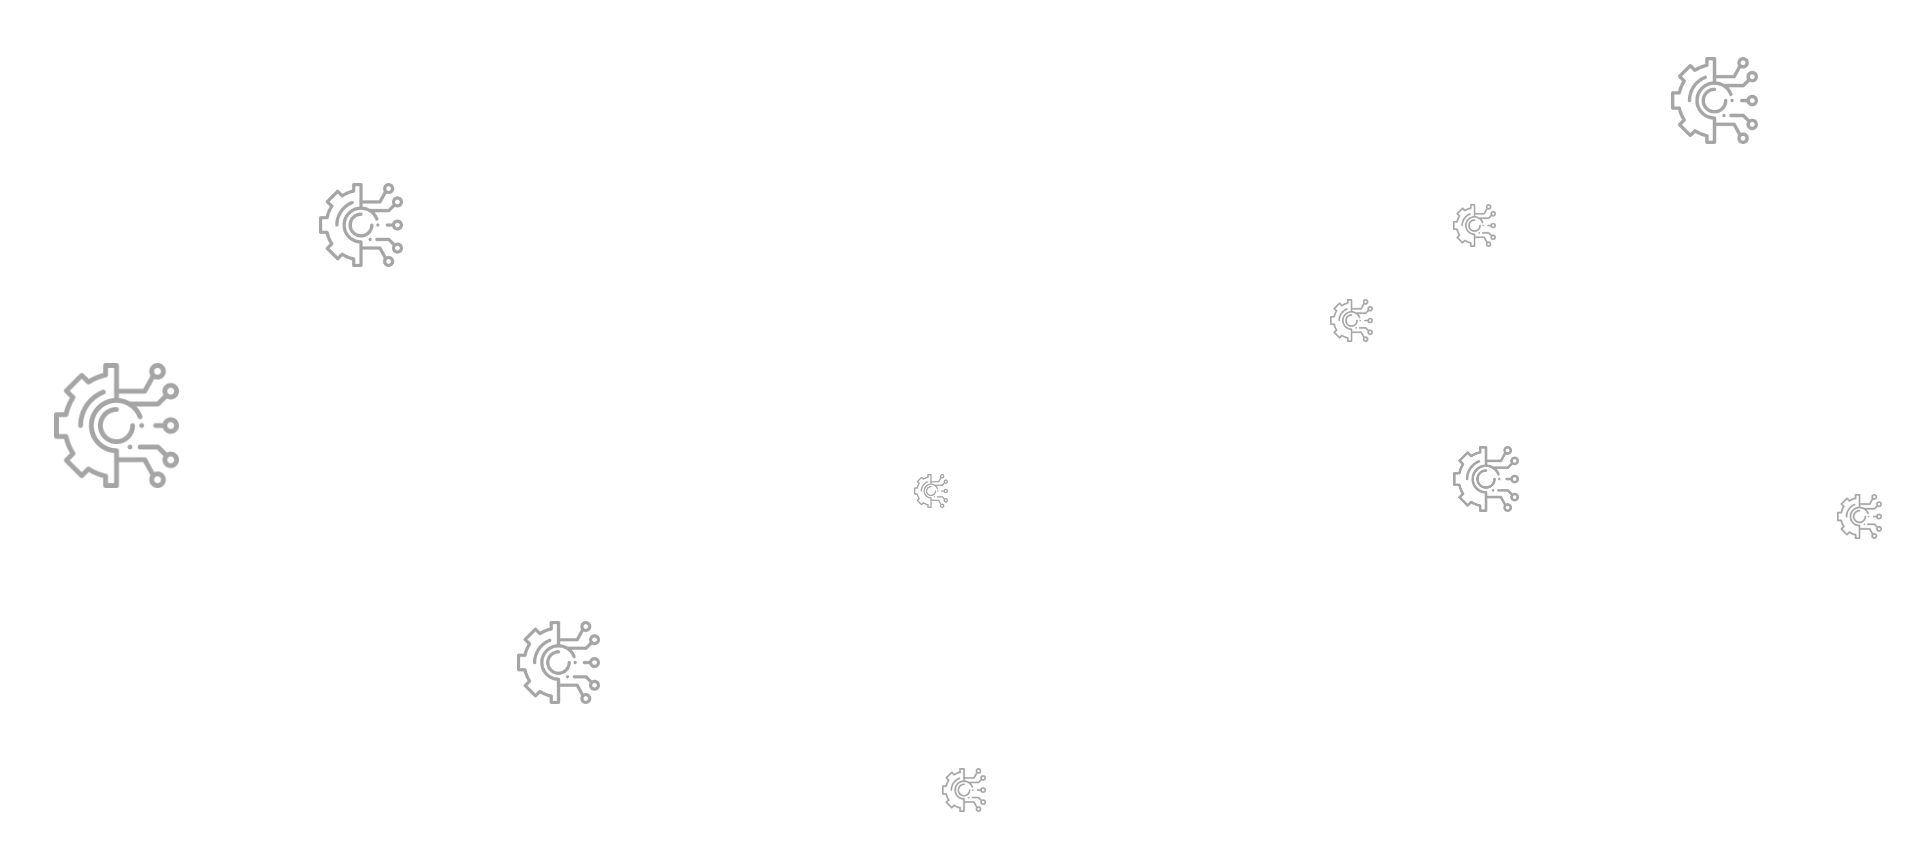
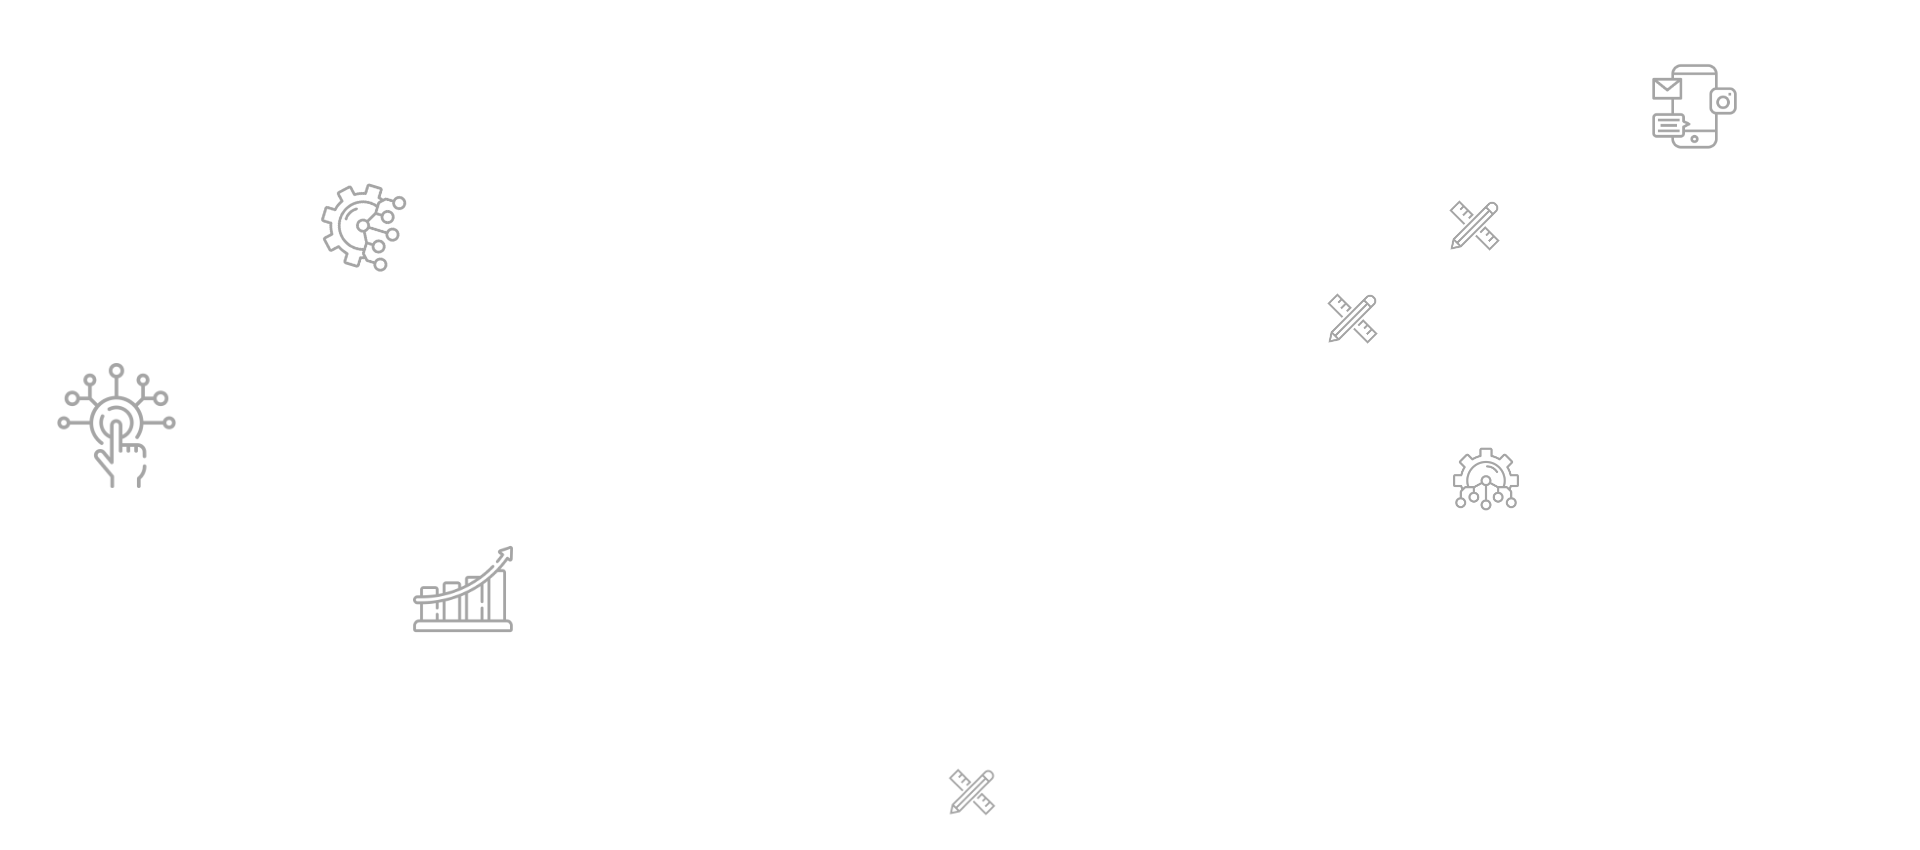
some changes in admin design

diff --git a/resources/views/welcome.blade.php b/resources/views/welcome.blade.php
@@ -163,7 +163,7 @@
         <div  class="col-xl-5 col-lg-11 col-md-12 col-sm-12 mb-xl-5 mt-xl-5 mb-md-5 mt-md-5 mb-sm-5 sdiv" style=" position: relative; padding: 0 50px; border: 2px solid black; border-radius: 20px;" >
 
             <div class="mb-xl-3 cdiv" style="background: rgba(167,35,85,1); width: 100px; height: 100px; border-radius: 50%; position: absolute; bottom: 170px;">
-                <i class="fa-solid fa-flask" style=" font-size: 35px; display: flex; justify-content: center; padding-top: 28px; color: white;"></i>
+                <i class="fa-solid fa-flask fa-beat-fade" style="--fa-beat-fade-opacity: 0.67; --fa-beat-fade-scale: 1.100; font-size: 35px; display: flex; justify-content: center; padding-top: 28px; color: white;"></i>
             </div>
 
 
@@ -178,7 +178,7 @@
         <div class="col-xl-5 col-lg-11 col-md-12 col-sm-12 mb-xl-5  mt-xl-5 mb-md-5 mt-md-5 mb-sm-5 mt-sm-5 mb-xs-5 sdiv" style=" position: relative; padding: 0 50px; border: 2px solid black; border-radius: 20px;" >
 
             <div class="mb-xl-3 cdiv" style="background: rgba(167,35,85,1); width: 100px; height: 100px; border-radius: 50%; position: absolute; bottom: 170px;">
-                <i class="fa-solid fa-bell-concierge" style=" font-size: 35px; display: flex; justify-content: center; padding-top: 28px; color: white;"></i>
+                <i class="fa-solid fa-bell-concierge " style=" font-size: 35px; display: flex; justify-content: center; padding-top: 28px; color: white;"></i>
             </div>
 
 
@@ -193,7 +193,7 @@
         <div class="col-xl-5 col-lg-11 col-md-12 col-sm-12 mb-xl-5 mt-xl-5 mb-md-5 mt-md-5 mb-sm-5 mt-sm-5 sdiv" style=" position: relative; padding: 0 50px; border: 2px solid black; border-radius: 20px;" >
 
             <div class="mb-xl-3 cdiv" style="background: rgba(167,35,85,1); width: 100px; height: 100px; border-radius: 50%; position: absolute; bottom: 170px;">
-                <i class="fa-solid fa-handshake" style=" font-size: 35px; display: flex; justify-content: center; padding-top: 28px; color: white;"></i>
+                <i class="fa-solid fa-handshake " style=" font-size: 35px; display: flex; justify-content: center; padding-top: 28px; color: white;"></i>
             </div>
 
 
@@ -209,7 +209,7 @@
         <div class="col-xl-5 col-lg-11 col-md-12 col-sm-12 mb-xl-5 mt-xl-5 mb-md-5 mt-md-5 mt-sm-5 sdiv" style=" position: relative; padding: 0 50px; border: 2px solid black; border-radius: 20px;" >
 
             <div class="mb-xl-3 cdiv" style="background: rgba(167,35,85,1); width: 100px; height: 100px; border-radius: 50%; position: absolute; bottom: 170px;">
-                <i class="fa-solid fa-mug-hot" style=" font-size: 35px; display: flex; justify-content: center; padding-top: 28px; color: white;"></i>
+                <i class="fa-solid fa-mug-hot fa-beat-fade" style="--fa-beat-fade-opacity: 0.67; --fa-beat-fade-scale: 1.100; font-size: 35px; display: flex; justify-content: center; padding-top: 28px; color: white;"></i>
             </div>
 
 

diff --git a/resources/views/admin/complaintindex.blade.php b/resources/views/admin/complaintindex.blade.php
@@ -19,9 +19,9 @@
         @foreach($complaints as $complaint)
             <tr>
                 <th scope="row">{{$complaint->id}}</th>
-                <th scope="row">{{$complaint->user->name}}</th>
-                <td scope="row">{{$complaint->user->email}}</td>
-                <td scope="row">{{$complaint->content}}</td>
+                <td>{{$complaint->user->name}}</td>
+                <td>{{$complaint->user->email}}</td>
+                <td>{{$complaint->content}}</td>
                 <td>
                     <form action="{{route('admincomplaint.destroy',$complaint->id)}}" method="post">
                         @csrf

diff --git a/resources/views/layouts/guest.blade.php b/resources/views/layouts/guest.blade.php
@@ -16,8 +16,8 @@
 
 
     </head>
-    <body class="font-sans text-gray-900 antialiased">
-        <div class="min-h-screen flex flex-col sm:justify-center items-center pt-6 sm:pt-0">
+    <body class="font-sans text-gray-900 antialiased" style="background-image: url({{'images/Gear.png'}}); background-size: cover;">
+        <div class="min-h-screen flex flex-col sm:justify-center items-center pt-6 sm:pt-0" >
             <div>
                 <a href="/">
                     <x-application-logo class="w-20 h-20 fill-current " style="margin-top: 50px;" />

diff --git a/resources/views/layouts/admin.blade.php b/resources/views/layouts/admin.blade.php
@@ -11,7 +11,7 @@
     <link href="https://cdn.jsdelivr.net/npm/bootstrap-icons@1.5.0/font/bootstrap-icons.css" rel="stylesheet" />
     <!-- Core theme CSS (includes Bootstrap)-->
 </head>
-<body>
+<body style="background-image: url({{'images/Gear2.png'}}); background-size: cover;">
 <nav class="navbar navbar-expand-lg navbar-dark bg-dark">
     <div class="container px-4 px-lg-5">
         <a class="navbar-brand" href="{{url('admin')}}">Dashboard</a>
